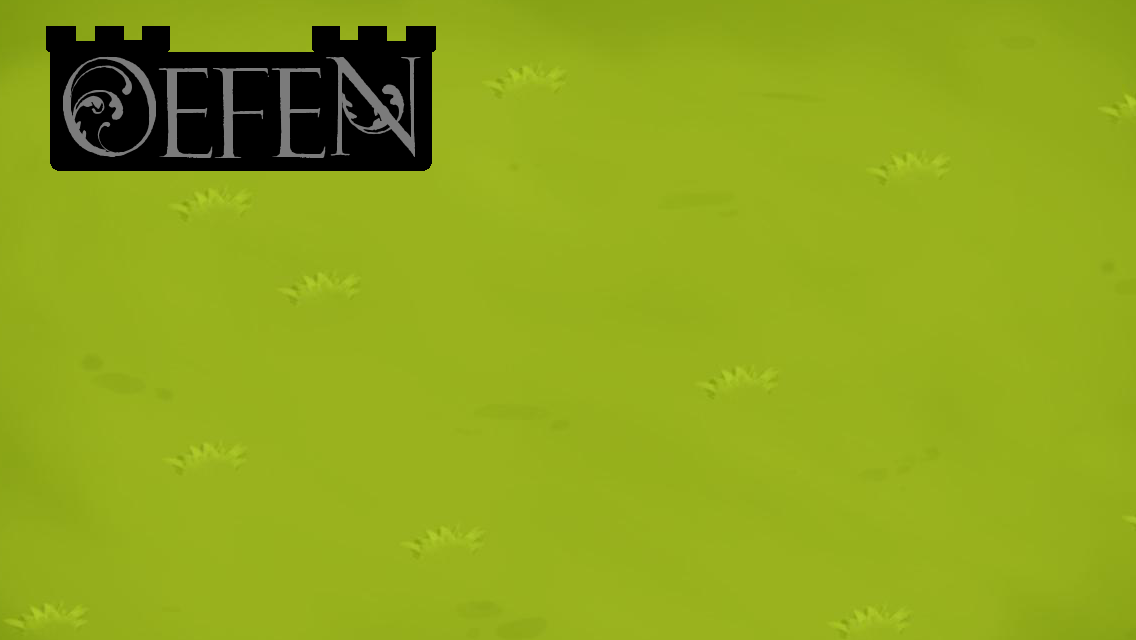
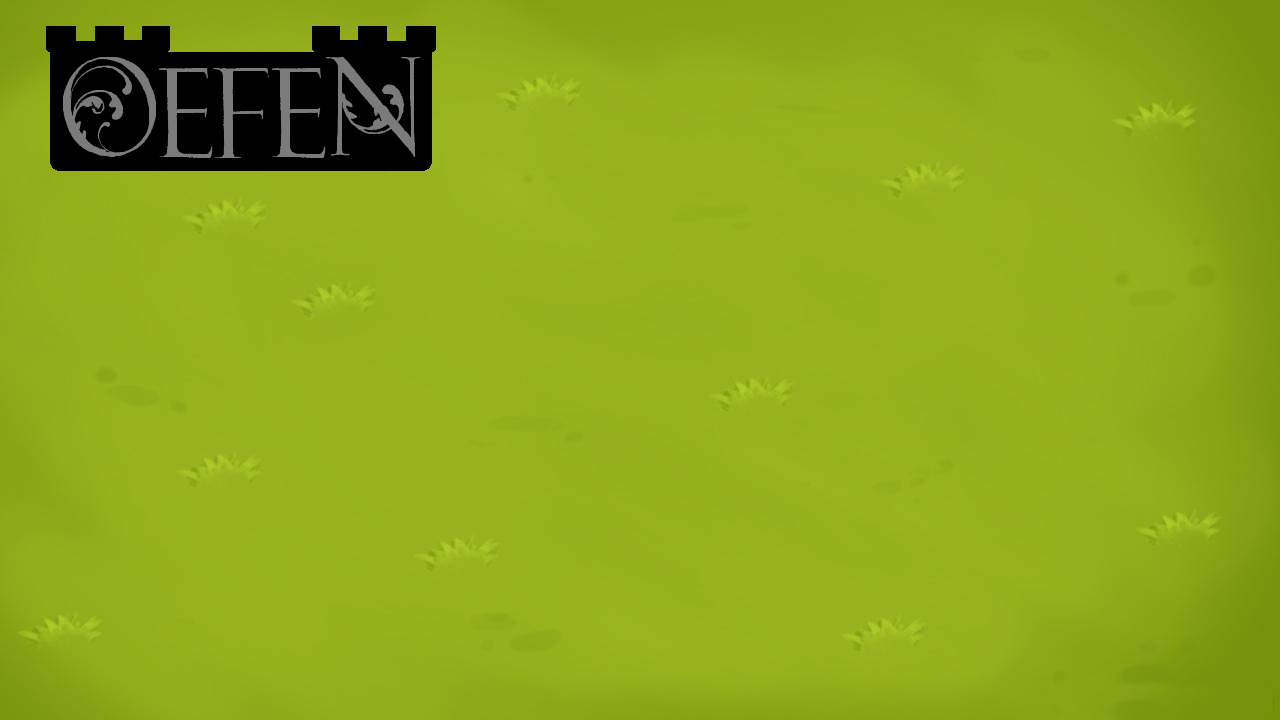
Changed resolution to 16:9, Main Menu Cleanup, etc
+Changed resolution to 1280x720.
+Cleaned up Main Menu with TextButton class for buttons.
+Changed map textures.

diff --git a/core/src/com/abstractlabs/oefen/screen/ScreenMainMenu.java b/core/src/com/abstractlabs/oefen/screen/ScreenMainMenu.java
@@ -1,6 +1,7 @@
 package com.abstractlabs.oefen.screen;
 
 import com.abstractlabs.oefen.Assets;
+import com.abstractlabs.oefen.Font;
 import com.abstractlabs.oefen.Oefen;
 import com.abstractlabs.oefen.Settings;
 import com.badlogic.gdx.Gdx;
@@ -9,23 +10,21 @@ import com.badlogic.gdx.graphics.GL20;
 import com.badlogic.gdx.graphics.OrthographicCamera;
 import com.badlogic.gdx.graphics.g2d.BitmapFont;
 import com.badlogic.gdx.graphics.g2d.TextureAtlas;
-import com.badlogic.gdx.graphics.g2d.freetype.FreeTypeFontGenerator;
-import com.badlogic.gdx.graphics.g2d.freetype.FreeTypeFontGenerator.FreeTypeFontParameter;
-import com.badlogic.gdx.math.Rectangle;
-import com.badlogic.gdx.math.Vector3;
+import com.badlogic.gdx.scenes.scene2d.InputEvent;
 import com.badlogic.gdx.scenes.scene2d.Stage;
 import com.badlogic.gdx.scenes.scene2d.actions.Actions;
-import com.badlogic.gdx.scenes.scene2d.ui.Button;
 import com.badlogic.gdx.scenes.scene2d.ui.Skin;
 import com.badlogic.gdx.scenes.scene2d.ui.TextButton;
 import com.badlogic.gdx.scenes.scene2d.ui.TextButton.TextButtonStyle;
+import com.badlogic.gdx.scenes.scene2d.utils.ClickListener;
+import com.badlogic.gdx.scenes.scene2d.utils.TextureRegionDrawable;
 
 public class ScreenMainMenu extends ScreenAdapter {
-	Oefen game;
+	public Oefen game;
 	OrthographicCamera guiCam;
-	Rectangle playBounds;
-	Vector3 touchPoint;
-	Button play;
+	//Rectangle playBounds;
+	//Vector3 touchPoint;
+	//Button play;
 	
 	Stage stage;
     TextButton button;
@@ -34,21 +33,23 @@ public class ScreenMainMenu extends ScreenAdapter {
     Skin skin;
     TextureAtlas buttonAtlas;
 	
-	public ScreenMainMenu (Oefen game) {
-		this.game = game;
+	public ScreenMainMenu (Oefen oefen) {
+		this.game = oefen;
 
-		guiCam = new OrthographicCamera(1136, 640);
-		guiCam.position.set(1136 / 2, 640 / 2, 0);
-		playBounds = new Rectangle(50, 640-250, 200, 53);
-		touchPoint = new Vector3();
-		play = new Button();
-		play.setPosition(150, 640-250);
+		guiCam = new OrthographicCamera(Oefen.WIDTH, Oefen.HEIGHT);
+		guiCam.position.set(Oefen.WIDTH / 2, Oefen.HEIGHT / 2, 0);
+		//playBounds = new Rectangle(50, 640-250, 200, 53);
+		//touchPoint = new Vector3();
+		//play = new Button();
+		//play.setPosition(150, 640-250);
 		
-		FreeTypeFontGenerator generator = new FreeTypeFontGenerator(Gdx.files.internal("gfx/sufrimeda.ttf"));
-		FreeTypeFontParameter parameter = new FreeTypeFontParameter();
-		parameter.size = 12;
-		BitmapFont font12 = generator.generateFont(parameter); // font size 12 pixels
-		generator.dispose(); // don't forget to dispose to avoid memory leaks!
+//		FreeTypeFontGenerator generator = new FreeTypeFontGenerator(Gdx.files.internal("gfx/sufrimeda.ttf"));
+//		FreeTypeFontParameter parameter = new FreeTypeFontParameter();
+//		parameter.size = 32;
+//		BitmapFont font12 = generator.generateFont(parameter); // font size 12 pixels
+//		generator.dispose(); // don't forget to dispose to avoid memory leaks!
+		
+		BitmapFont font2 = Font.createFont(Gdx.files.internal("gfx/sufrimeda.ttf"), 30);
 		
 		stage = new Stage();
         Gdx.input.setInputProcessor(stage);
@@ -58,28 +59,41 @@ public class ScreenMainMenu extends ScreenAdapter {
         buttonAtlas = new TextureAtlas(Gdx.files.internal("gfx/buttons.txt"));
         skin.addRegions(buttonAtlas);
         textButtonStyle = new TextButtonStyle();
-        textButtonStyle.font = font12;
+        textButtonStyle.font = font2;
         textButtonStyle.up = skin.getDrawable("up-button");
         textButtonStyle.down = skin.getDrawable("down-button");
         //textButtonStyle.checked = skin.getDrawable("checked-button");
-        button = new TextButton("Play Ranked", textButtonStyle);
+//        textButtonStyle.up = new TextureRegionDrawable(Assets.gemBlue);
+//        textButtonStyle.down = new TextureRegionDrawable(Assets.gemOrange);
+        button = new TextButton("Play"/*+Gdx.graphics.getDensity()*/, textButtonStyle);
         button.addAction(Actions.scaleTo(50, 50, 0.5f));
+        button.addListener( new ClickListener() {
+            @Override
+            public void clicked(InputEvent e, float x, float y) {
+				Assets.playSound(Assets.clickSound);
+				game.setScreen(new ScreenGame(game));
+            }
+        } );
+
+		button.setPosition(50, 640-250);
+        
         stage.addActor(button);
+        Gdx.input.setInputProcessor(stage);
 	}
 
 	public void update () {
 		if (Gdx.input.justTouched()) {
-			guiCam.unproject(touchPoint.set(Gdx.input.getX(), Gdx.input.getY(), 0));
+			//guiCam.unproject(touchPoint.set(Gdx.input.getX(), Gdx.input.getY(), 0));
 
-			if (playBounds.contains(touchPoint.x, touchPoint.y)) {
-				Assets.playSound(Assets.clickSound);
-				game.batch.enableBlending();
-				game.batch.begin();
-				game.batch.draw(Assets.playHover, 50, 640-250, 200, 53);
-				game.batch.end();
-				game.setScreen(new ScreenGame(game));
-				return;
-			}
+//			if (playBounds.contains(touchPoint.x, touchPoint.y)) {
+//				Assets.playSound(Assets.clickSound);
+//				game.batch.enableBlending();
+//				game.batch.begin();
+//				game.batch.draw(Assets.playHover, 50, 640-250, 200, 53);
+//				game.batch.end();
+//				game.setScreen(new ScreenGame(game));
+//				return;
+//			}
 		}
 	}
 
@@ -93,12 +107,12 @@ public class ScreenMainMenu extends ScreenAdapter {
 
 		game.batch.disableBlending();
 		game.batch.begin();
-		game.batch.draw(Assets.backgroundMainMenuRegion, 0, 0, 1136, 640);
+		game.batch.draw(Assets.backgroundMainMenuRegion, 0, 0, Oefen.WIDTH, Oefen.HEIGHT);
 		game.batch.end();
 
 		game.batch.enableBlending();
 		game.batch.begin();
-		game.batch.draw(Assets.play, 50, 640-250, 200, 53);
+		//game.batch.draw(Assets.play, 50, 640-250, 200, 53);
 		//play.draw(game.batch, 1f);
 		game.batch.end();
 		

diff --git a/core/src/com/abstractlabs/oefen/screen/ScreenGame.java b/core/src/com/abstractlabs/oefen/screen/ScreenGame.java
@@ -35,21 +35,23 @@ public class ScreenGame extends ScreenAdapter {
          {0,0,0,0,0,0,0,0,0,0,0,0,0,8,7,7,7,0,0,0,0,0,0,0,0,0,0,0,0,0,0,0,0,0}};
 
 	int[][] map = 
-		{{0,0,0,0,0,0,0,0,0,0,0,0,0,0,0,8,7,7,9,0,0,0,0,0,0,0,0,0,0,0,0,0,0,0},
-         {0,0,0,0,0,0,0,0,0,0,0,0,0,0,0,8,7,7,9,0,0,0,0,0,0,0,0,0,0,0,0,0,0,0},
-         {0,0,0,0,0,0,0,0,3,1,1,1,1,4,0,8,7,7,9,0,0,0,0,0,0,0,0,0,0,0,0,0,0,0},
-         {0,0,0,0,0,0,0,0,1,0,0,0,0,1,0,8,7,7,9,0,0,0,0,0,0,0,0,0,0,0,0,0,0,0},
-         {0,0,0,0,0,0,0,0,1,0,0,0,0,1,0,8,7,7,9,0,0,0,0,0,0,0,0,0,0,0,0,0,0,0},
-         {0,0,0,0,0,0,0,0,1,0,0,0,0,1,0,8,7,7,9,0,0,0,0,0,0,0,0,0,0,0,0,0,0,0},
-         {0,0,0,0,0,0,0,0,1,0,0,0,0,1,0,8,7,7,9,0,0,0,0,0,0,0,0,0,0,0,0,0,0,0},
-         {0,0,0,1,1,1,1,1,2,0,0,0,0,5,1,6,6,6,6,1,4,0,0,0,0,3,1,1,1,1,1,0,0,0},
-         {0,0,0,0,0,0,0,0,0,0,0,0,0,0,0,8,7,7,9,0,1,0,0,0,0,1,0,0,0,0,0,0,0,0},
-         {0,0,0,0,0,0,0,0,0,0,0,0,0,0,0,8,7,7,9,0,1,0,0,0,0,1,0,0,0,0,0,0,0,0},
-         {0,0,0,0,0,0,0,0,0,0,0,0,0,0,0,8,7,7,9,0,1,0,0,0,0,1,0,0,0,0,0,0,0,0},
-         {0,0,0,0,0,0,0,0,0,0,0,0,0,0,0,8,7,7,9,0,1,0,0,0,0,1,0,0,0,0,0,0,0,0},
-         {0,0,0,0,0,0,0,0,0,0,0,0,0,0,0,8,7,7,9,0,5,1,1,1,1,2,0,0,0,0,0,0,0,0},
-         {0,0,0,0,0,0,0,0,0,0,0,0,0,0,0,8,7,7,9,0,0,0,0,0,0,0,0,0,0,0,0,0,0,0},
-         {0,0,0,0,0,0,0,0,0,0,0,0,0,0,0,8,7,7,9,0,0,0,0,0,0,0,0,0,0,0,0,0,0,0}};
+		{{0,0,0,0,0,0,0,0,0,0,0,0,0,0,0,0,8,7,7,9,0,0,0,0,0,0,0,0,0,0,0,0,0,0,0,0},
+	     {0,0,0,0,0,0,0,0,0,0,0,0,0,0,0,0,8,7,7,9,0,0,0,0,0,0,0,0,0,0,0,0,0,0,0,0},
+         {0,0,0,0,0,0,0,0,0,0,0,0,0,0,0,0,8,7,7,9,0,0,0,0,0,0,0,0,0,0,0,0,0,0,0,0},
+         {0,0,0,0,0,0,0,0,3,1,1,1,1,1,4,0,8,7,7,9,0,0,0,0,0,0,0,0,0,0,0,0,0,0,0,0},
+         {0,0,0,0,0,0,0,0,1,0,0,0,0,0,1,0,8,7,7,9,0,0,0,0,0,0,0,0,0,0,0,0,0,0,0,0},
+         {0,0,0,0,0,0,0,0,1,0,0,0,0,0,1,0,8,7,7,9,0,0,0,0,0,0,0,0,0,0,0,0,0,0,0,0},
+         {0,0,0,0,0,0,0,0,1,0,0,11,0,0,1,0,8,7,7,9,0,0,0,0,0,0,0,0,0,0,0,0,0,0,0,0},
+         {0,0,0,0,0,0,0,0,1,0,0,0,0,0,1,0,8,7,7,9,0,0,0,0,0,0,0,0,0,0,0,0,0,0,0,0},
+         {0,0,0,1,1,1,1,1,2,0,0,0,0,0,5,1,6,6,6,10,1,4,0,0,0,0,0,3,1,1,1,1,1,0,0,0},
+         {0,0,0,0,0,0,0,0,0,0,0,0,0,0,0,0,8,7,7,9,0,1,0,0,0,0,0,1,0,0,0,0,0,0,0,0},
+         {0,0,0,0,0,0,0,0,0,0,0,0,0,0,0,0,8,7,7,9,0,1,0,0,12,0,0,1,0,0,0,0,0,0,0,0},
+         {0,0,0,0,0,0,0,0,0,0,0,0,0,0,0,0,8,7,7,9,0,1,0,0,0,0,0,1,0,0,0,0,0,0,0,0},
+         {0,0,0,0,0,0,0,0,0,0,0,0,0,0,0,0,8,7,7,9,0,1,0,0,0,0,0,1,0,0,0,0,0,0,0,0},
+         {0,0,0,0,0,0,0,0,0,0,0,0,0,0,0,0,8,7,7,9,0,5,1,1,1,1,1,2,0,0,0,0,0,0,0,0},
+         {0,0,0,0,0,0,0,0,0,0,0,0,0,0,0,0,8,7,7,9,0,0,0,0,0,0,0,0,0,0,0,0,0,0,0,0},
+         {0,0,0,0,0,0,0,0,0,0,0,0,0,0,0,0,8,7,7,9,0,0,0,0,0,0,0,0,0,0,0,0,0,0,0,0},
+         {0,0,0,0,0,0,0,0,0,0,0,0,0,0,0,0,8,7,7,9,0,0,0,0,0,0,0,0,0,0,0,0,0,0,0,0}};
 
 //	int[][] map = 
 //		{{0,0,0,0,0,0,0,0,0,0,0,0,0,0,0,0,0,0,0,0,0,0,0,0,0,0,0,0,0,0,0,0,0,0},
@@ -71,8 +73,8 @@ public class ScreenGame extends ScreenAdapter {
 	public ScreenGame (Oefen game) {
 		this.game = game;
 
-		guiCam = new OrthographicCamera(1136, 640);
-		guiCam.position.set(1136 / 2, 640 / 2, 0);
+		guiCam = new OrthographicCamera(Oefen.WIDTH, Oefen.HEIGHT);
+		guiCam.position.set(Oefen.WIDTH / 2, Oefen.HEIGHT / 2, 0);
 		touchPoint = new Vector3();
 	}
 
@@ -94,7 +96,7 @@ public class ScreenGame extends ScreenAdapter {
 
 		game.batch.disableBlending();
 		game.batch.begin();
-		game.batch.draw(Assets.backgroundIngameRegion, 0, 0, 1136, 640);
+		game.batch.draw(Assets.backgroundIngameRegion, 0, 0, Oefen.WIDTH, Oefen.HEIGHT);
 		
 		for(int i=0; i<map.length; i++) {
 	    	for(int k=0; k<map[i].length; k++) {
@@ -110,8 +112,23 @@ public class ScreenGame extends ScreenAdapter {
 	    		else if(map[i][k] == 7) { texture = Assets.waterTile.getKeyFrame(stateTime, Animation.ANIMATION_LOOPING); xflip = false; yflip = false; } 
 	    		else if(map[i][k] == 8) { texture = Assets.waterSideTile.getKeyFrame(stateTime, Animation.ANIMATION_LOOPING); xflip = false; yflip = false; } 
 	    		else if(map[i][k] == 9) { texture = Assets.waterSideTile.getKeyFrame(stateTime, Animation.ANIMATION_LOOPING); xflip = true; yflip = true; } 
+	    		else if(map[i][k] == 10) { texture = Assets.bridge2Tile.getKeyFrame(stateTime, Animation.ANIMATION_LOOPING); xflip = false; yflip = false; }
+	    		else if(map[i][k] == 11) { texture = Assets.gemBlue; xflip = false; yflip = false; }
+	    		else if(map[i][k] == 12) { texture = Assets.gemRed; xflip = false; yflip = false; }
+//	    		else if(map[i][k] == 11) { 
+//	    			Random rand = new Random();
+//	    			int n = rand.nextInt(5);
+//	    			if(n == 0) { texture = Assets.gemBlue; } 
+//	    			else if(n == 1) { texture = Assets.gemGreen; }
+//	    			else if(n == 2) { texture = Assets.gemGray; }
+//	    			else if(n == 3) { texture = Assets.gemPurple; }
+//	    			else if(n == 4) { texture = Assets.gemRed; }
+//	    			else if(n == 5) { texture = Assets.gemOrange; }
+//	    			xflip = false; yflip = false;
+//	    		} 
 	    		texture.flip(xflip, yflip);
-	    		game.batch.draw(texture, 24+k*32, (480+104)-(i*32)-32+2, 32, 32);
+	    		game.batch.draw(texture, 64+k*32, (480+184)-(i*32)-32+2, 32, 32);
+//	    		game.batch.draw(texture, 24+k*48, (480+104)-(i*48)-48+2, 48, 48);
 	    		texture.flip(xflip, yflip);
 		    }
 	    }

diff --git a/core/src/com/abstractlabs/oefen/Assets.java b/core/src/com/abstractlabs/oefen/Assets.java
@@ -25,8 +25,15 @@ public class Assets {
 	public static Animation waterTile;
 	public static Animation waterCornerTile;
 	public static Animation bridgeTile;
+	public static Animation bridge2Tile;
 	public static Animation waterSideTile;
 	public static TextureRegion hoverTile;
+	public static TextureRegion gemBlue;
+	public static TextureRegion gemGreen;
+	public static TextureRegion gemGray;
+	public static TextureRegion gemPurple;
+	public static TextureRegion gemRed;
+	public static TextureRegion gemOrange;
 
 	public static Texture towers;
 	public static TextureRegion greenTower;
@@ -46,9 +53,9 @@ public class Assets {
 	public static void load () {
 		//Backgrounds
 		backgroundMainMenu = loadTexture("gfx/background_mainmenu.png");
-		backgroundMainMenuRegion = new TextureRegion(backgroundMainMenu, 0, 0, 1136, 640);
+		backgroundMainMenuRegion = new TextureRegion(backgroundMainMenu, 0, 0, Oefen.WIDTH, Oefen.HEIGHT);
 		backgroundIngame = loadTexture("gfx/background_ingame.png");
-		backgroundIngameRegion = new TextureRegion(backgroundIngame, 0, 0, 1136, 640);
+		backgroundIngameRegion = new TextureRegion(backgroundIngame, 0, 0, Oefen.WIDTH, Oefen.HEIGHT);
 
 		//Buttons
 		buttons = loadTexture("gfx/buttons.png");
@@ -59,31 +66,44 @@ public class Assets {
 		//Tiles
 		tiles = loadTexture("gfx/tiles.png");
 		voidTile = new TextureRegion(tiles, 0*16, 0*16, 16, 16);
-		grassTile = new TextureRegion(tiles, 1*16, 0*16, 16, 16);
+		grassTile = new TextureRegion(tiles, 5*16, 0*16, 16, 16);
 		dirtTile = new TextureRegion(tiles, 2*16, 0*16, 16, 16);
 		//bridgeTile = new TextureRegion(tiles, 3*16, 0*16, 16, 16);
-		dirtCornerTile = new TextureRegion(tiles, 4*16, 0*16, 16, 16);
+		dirtCornerTile = new TextureRegion(tiles, 6*16, 0*16, 16, 16);
 		waterTile = new Animation(0.5f, 
-				new TextureRegion(tiles, 0*16, 4*16, 16, 16), 
-				new TextureRegion(tiles, 1*16, 4*16, 16, 16), 
-				new TextureRegion(tiles, 2*16, 4*16, 16, 16), 
-				new TextureRegion(tiles, 3*16, 4*16, 16, 16));
+				new TextureRegion(tiles, 0*16, 9*16, 16, 16), 
+				new TextureRegion(tiles, 1*16, 9*16, 16, 16), 
+				new TextureRegion(tiles, 2*16, 9*16, 16, 16), 
+				new TextureRegion(tiles, 3*16, 9*16, 16, 16));
 		waterCornerTile = new Animation(0.5f, 
 				new TextureRegion(tiles, 0*16, 5*16, 16, 16), 
 				new TextureRegion(tiles, 1*16, 5*16, 16, 16), 
 				new TextureRegion(tiles, 2*16, 5*16, 16, 16), 
 				new TextureRegion(tiles, 3*16, 5*16, 16, 16));
 		bridgeTile = new Animation(0.5f, 
-				new TextureRegion(tiles, 0*16, 6*16, 16, 16), 
-				new TextureRegion(tiles, 1*16, 6*16, 16, 16), 
-				new TextureRegion(tiles, 2*16, 6*16, 16, 16), 
-				new TextureRegion(tiles, 3*16, 6*16, 16, 16));
-		waterSideTile = new Animation(0.5f, 
-				new TextureRegion(tiles, 0*16, 7*16, 16, 16), 
-				new TextureRegion(tiles, 1*16, 7*16, 16, 16), 
-				new TextureRegion(tiles, 2*16, 7*16, 16, 16), 
-				new TextureRegion(tiles, 3*16, 7*16, 16, 16));
+				new TextureRegion(tiles, 0*16, 10*16, 16, 16), 
+				new TextureRegion(tiles, 1*16, 10*16, 16, 16), 
+				new TextureRegion(tiles, 2*16, 10*16, 16, 16), 
+				new TextureRegion(tiles, 3*16, 10*16, 16, 16));
+		bridge2Tile = new Animation(0.5f, 
+				new TextureRegion(tiles, 0*16, 11*16, 16, 16), 
+				new TextureRegion(tiles, 1*16, 11*16, 16, 16), 
+				new TextureRegion(tiles, 2*16, 11*16, 16, 16), 
+				new TextureRegion(tiles, 3*16, 11*16, 16, 16));
+		waterSideTile = new Animation(5.0f, 
+//				new TextureRegion(tiles, 0*16, 8*16, 16, 16), 
+//				new TextureRegion(tiles, 1*16, 8*16, 16, 16), 
+				new TextureRegion(tiles, 3*16, 8*16, 16, 16)); 
+//				new TextureRegion(tiles, 3*16, 8*16, 16, 16)); 
+//				new TextureRegion(tiles, 2*16, 8*16, 16, 16));
+//				new TextureRegion(tiles, 1*16, 8*16, 16, 16));
 		hoverTile = new TextureRegion(tiles, 0*16, 15*16, 16, 16);
+		gemBlue   = new TextureRegion(tiles, 0*16, 2*16, 16, 16);
+		gemGreen  = new TextureRegion(tiles, 1*16, 2*16, 16, 16);
+		gemGray   = new TextureRegion(tiles, 2*16, 2*16, 16, 16);
+		gemPurple = new TextureRegion(tiles, 3*16, 2*16, 16, 16);
+		gemRed    = new TextureRegion(tiles, 4*16, 2*16, 16, 16);
+		gemOrange = new TextureRegion(tiles, 5*16, 2*16, 16, 16);
 
 		//Towers
 		towers = loadTexture("gfx/towers.png");

diff --git a/core/src/com/abstractlabs/oefen/Font.java b/core/src/com/abstractlabs/oefen/Font.java
@@ -1,0 +1,18 @@
+package com.abstractlabs.oefen;
+
+import com.badlogic.gdx.Gdx;
+import com.badlogic.gdx.files.FileHandle;
+import com.badlogic.gdx.graphics.g2d.BitmapFont;
+import com.badlogic.gdx.graphics.g2d.freetype.FreeTypeFontGenerator;
+import com.badlogic.gdx.graphics.g2d.freetype.FreeTypeFontGenerator.FreeTypeFontParameter;
+
+public class Font {
+	public static BitmapFont createFont(FileHandle fh, float dp) {
+	    FreeTypeFontGenerator generator = new FreeTypeFontGenerator(fh);
+		FreeTypeFontParameter parameter = new FreeTypeFontParameter();
+		parameter.size = (int)(dp * Gdx.graphics.getDensity());
+		BitmapFont font = generator.generateFont(parameter);
+		generator.dispose();
+		return font;
+	}
+}

diff --git a/desktop/src/com/abstractlabs/oefen/desktop/DesktopLauncher.java b/desktop/src/com/abstractlabs/oefen/desktop/DesktopLauncher.java
@@ -8,8 +8,8 @@ public class DesktopLauncher {
 	public static void main (String[] arg) {
 		LwjglApplicationConfiguration config = new LwjglApplicationConfiguration();
 		config.title = "Oefen";
-		config.width = 1136;
-		config.height = 640;
+		config.width = Oefen.WIDTH;
+		config.height = Oefen.HEIGHT;
 		new LwjglApplication(new Oefen(), config);
 	}
 }

diff --git a/core/src/com/abstractlabs/oefen/Oefen.java b/core/src/com/abstractlabs/oefen/Oefen.java
@@ -5,6 +5,9 @@ import com.badlogic.gdx.Game;
 import com.badlogic.gdx.graphics.g2d.SpriteBatch;
 
 public class Oefen extends Game {
+	public static final int WIDTH = 1280;
+	public static final int HEIGHT = 720;
+	
 	public SpriteBatch batch;
 	
 	@Override

diff --git a/core/src/com/abstractlabs/oefen/entity/Attacker.java b/core/src/com/abstractlabs/oefen/entity/Attacker.java
@@ -1,0 +1,9 @@
+package com.abstractlabs.oefen.entity;
+
+import com.badlogic.gdx.scenes.scene2d.Actor;
+
+public class Attacker extends Actor {
+	public Attacker() {
+		
+	}
+}
